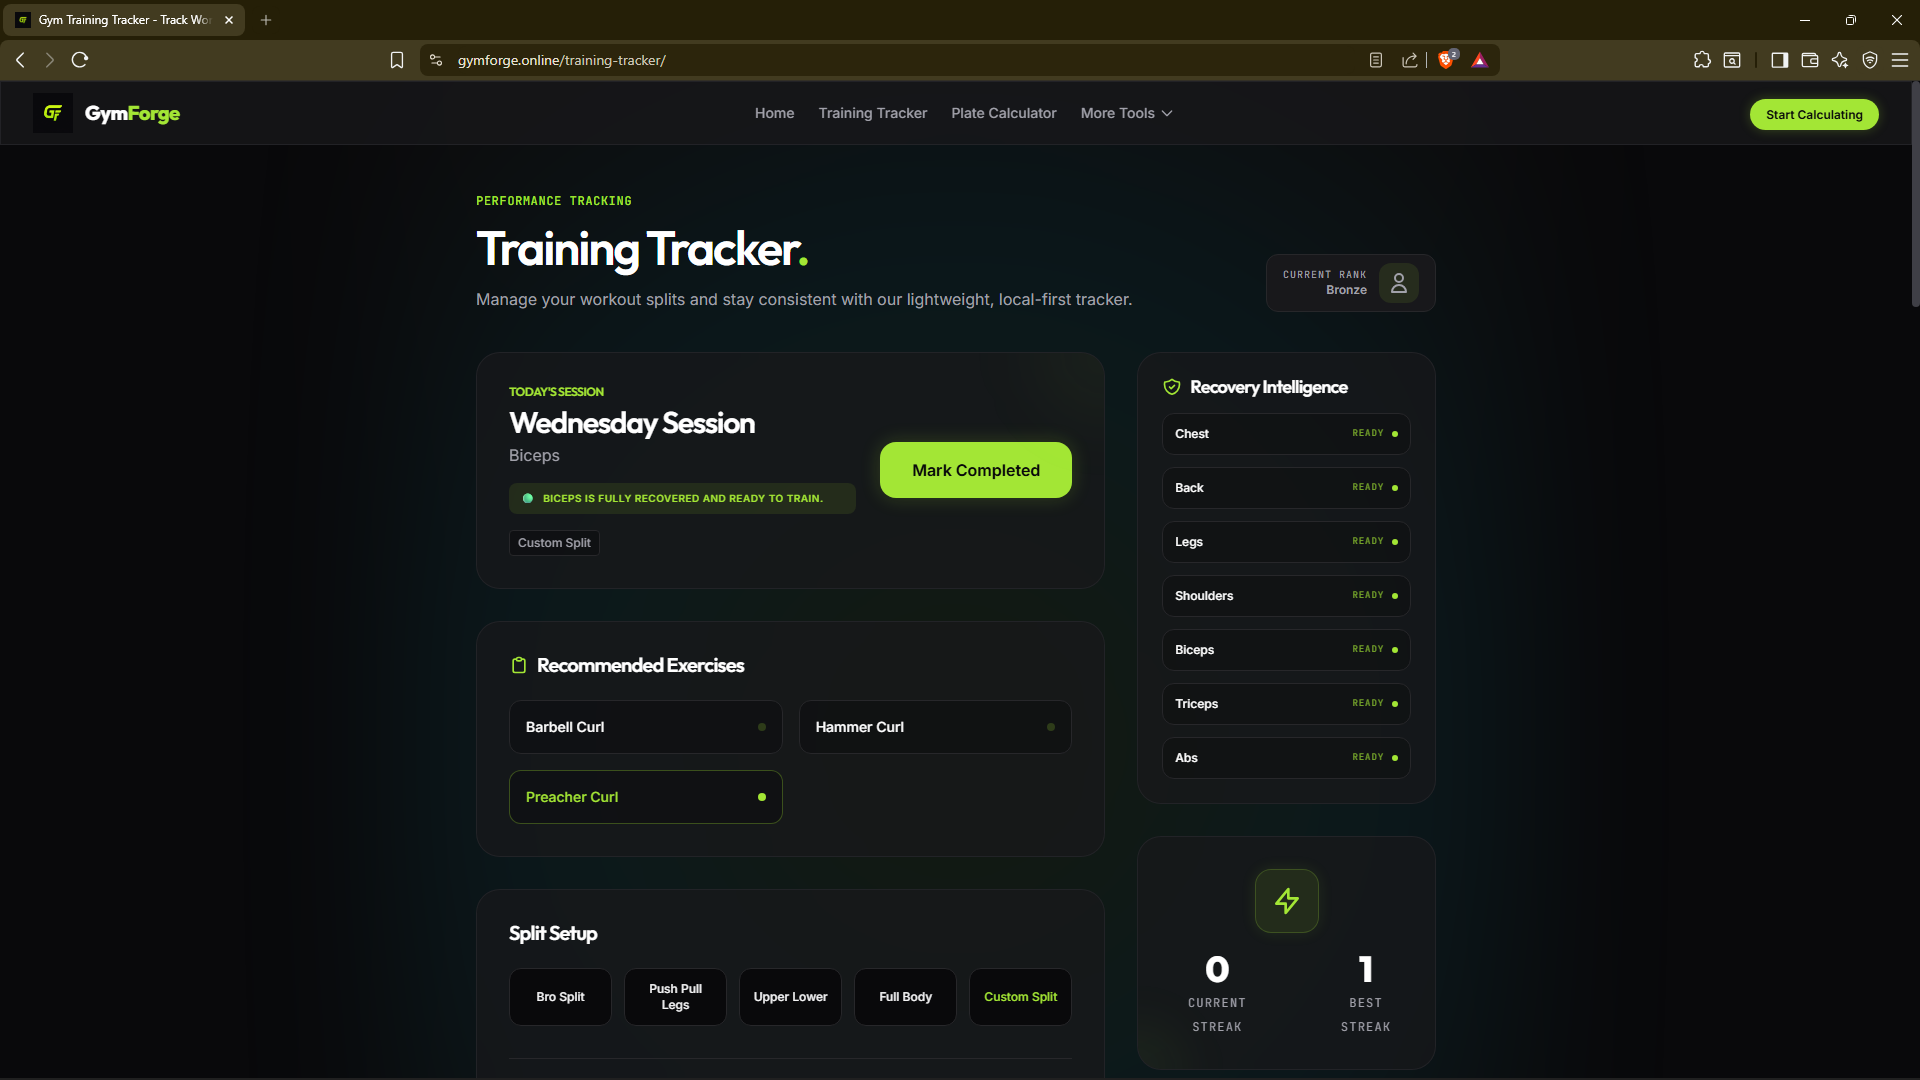
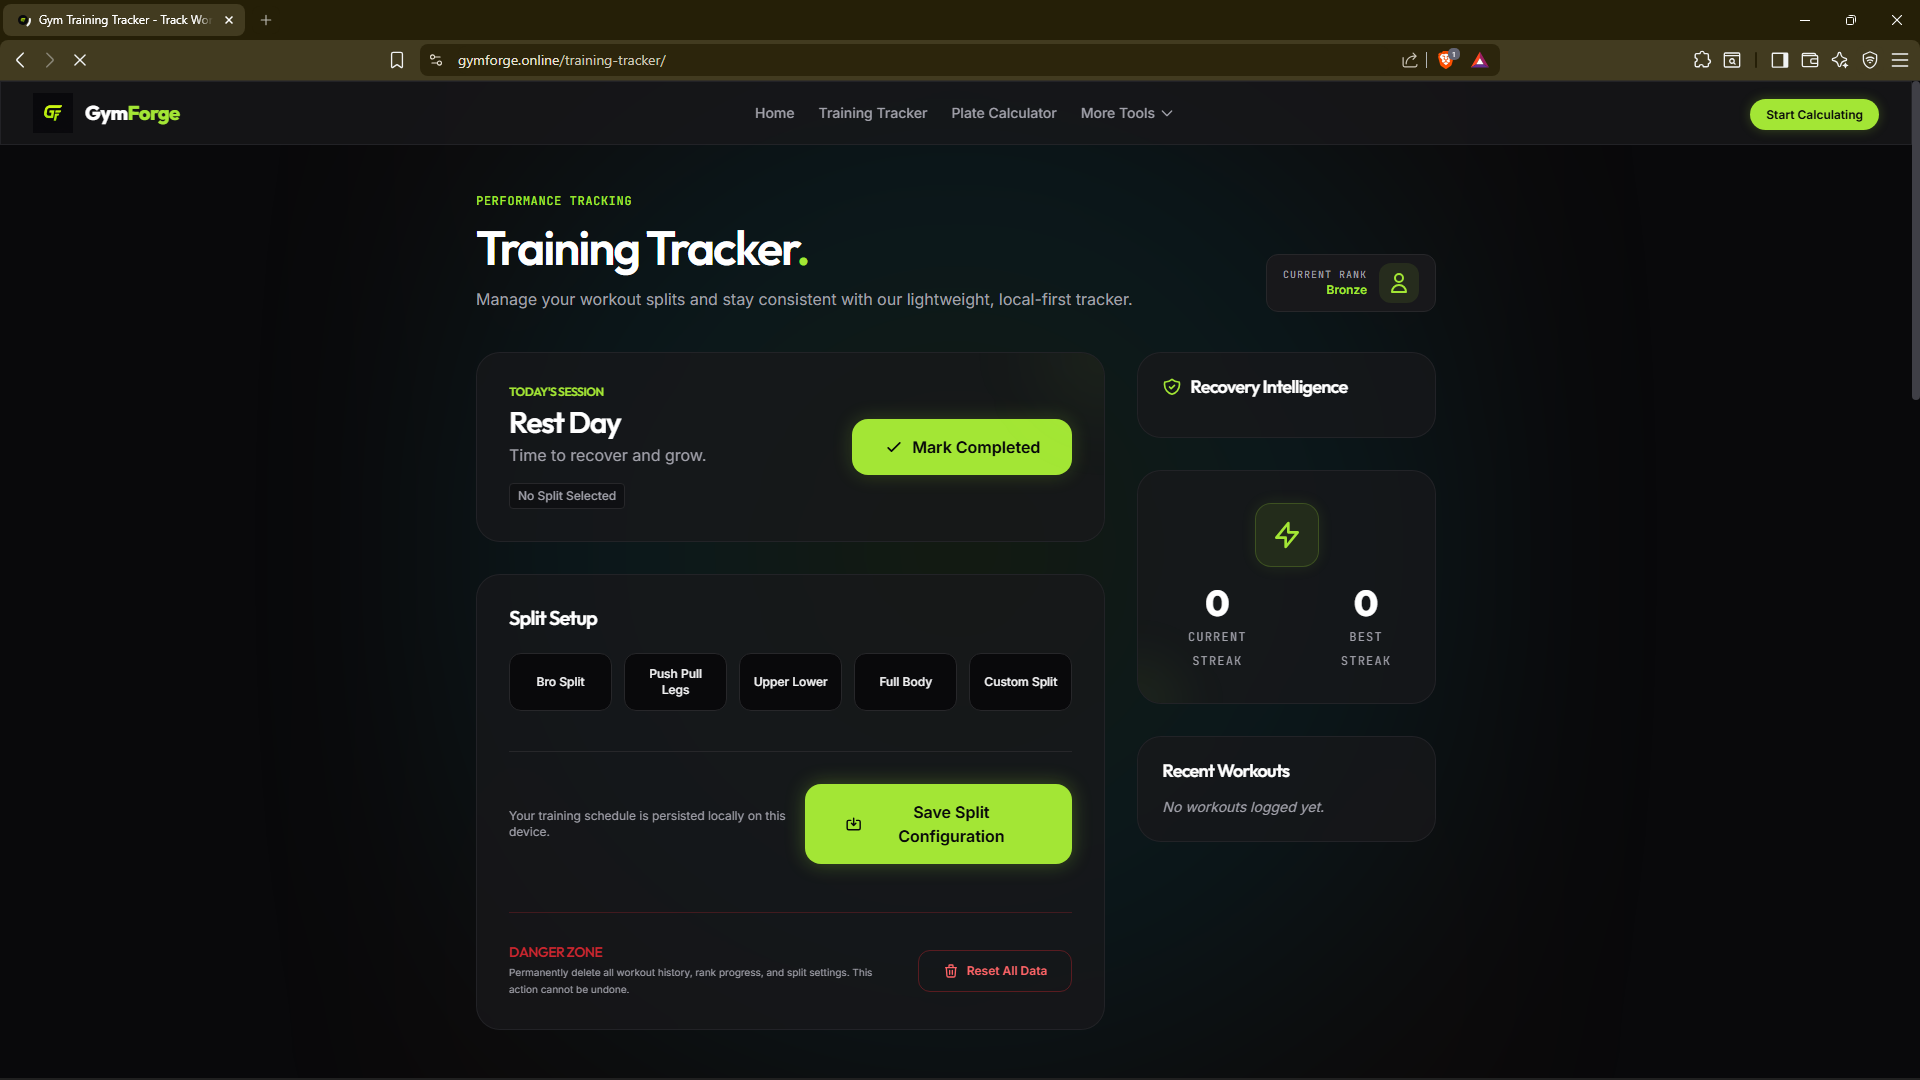
docs: add screenshots and update project documentation in README

diff --git a/README.md b/README.md
@@ -1,46 +1,98 @@
-# Astro Starter Kit: Basics
+# 💪 GymForge
 
-```sh
-npm create astro@latest -- --template basics
+A modern fitness web application built with Astro to help users calculate fitness metrics, track workouts, and improve their training.
+
+---
+
+## 🌐 Live Demo
+
+https://gymforge.online
+
+---
+
+## ✨ Features
+
+- 🏋️ Training Tracker
+- 💪 One Rep Max Calculator
+- 🥩 Protein Calculator
+- 🔥 Calorie Calculator
+- 📈 Progressive Overload Calculator
+- 🏆 Strength Standards
+- 📱 Responsive Design
+- ⚡ Fast Performance
+
+---
+
+## 🛠️ Tech Stack
+
+- Astro
+- HTML5
+- CSS3
+- JavaScript
+- Cloudflare Pages
+
+---
+
+## 🚀 Installation
+
+```bash
+git clone https://github.com/amanverma1807/gymforge.git
+cd gymforge
+npm install
+npm run dev
+
 ```
 
-> 🧑🚀 **Seasoned astronaut?** Delete this file. Have fun!
+## 📸 Screenshots
 
-## 🚀 Project Structure
+### Home Page
 
-Inside of your Astro project, you'll see the following folders and files:
+![Home](screenshots/home.png)
 
-```text
-/
-├── public/
-│   └── favicon.svg
-├── src
-│   ├── assets
-│   │   └── astro.svg
-│   ├── components
-│   │   └── Welcome.astro
-│   ├── layouts
-│   │   └── Layout.astro
-│   └── pages
-│       └── index.astro
-└── package.json
+### Protein Calculator
+
+![Protein Calculator](screenshots/calculator.png)
+
+### Training Tracker
+
+![Training Tracker](screenshots/tracker.png)
+
+---
+
+## 📂 Project Structure
+
+```
+src/
+ ├── components/
+ ├── pages/
+ ├── styles/
+public/
 ```
 
-To learn more about the folder structure of an Astro project, refer to [our guide on project structure](https://docs.astro.build/en/basics/project-structure/).
+---
 
-## 🧞 Commands
+## 🎯 Future Improvements
 
-All commands are run from the root of the project, from a terminal:
+- User Accounts
+- Workout History
+- Progress Charts
+- Dark/Light Theme
+- AI Workout Recommendations
 
-| Command                   | Action                                           |
-| :------------------------ | :----------------------------------------------- |
-| `npm install`             | Installs dependencies                            |
-| `npm run dev`             | Starts local dev server at `localhost:4321`      |
-| `npm run build`           | Build your production site to `./dist/`          |
-| `npm run preview`         | Preview your build locally, before deploying     |
-| `npm run astro ...`       | Run CLI commands like `astro add`, `astro check` |
-| `npm run astro -- --help` | Get help using the Astro CLI                     |
+---
 
-## 👀 Want to learn more?
+## 👨💻 Author
 
-Feel free to check [our documentation](https://docs.astro.build) or jump into our [Discord server](https://astro.build/chat).
+**Aman Verma**
+
+GitHub: https://github.com/amanverma1807
+
+Portfolio: https://amanverma.online
+
+LinkedIn: (Add after creating)
+
+---
+
+## ⭐ Support
+
+If you like this project, give it a ⭐ on GitHub.